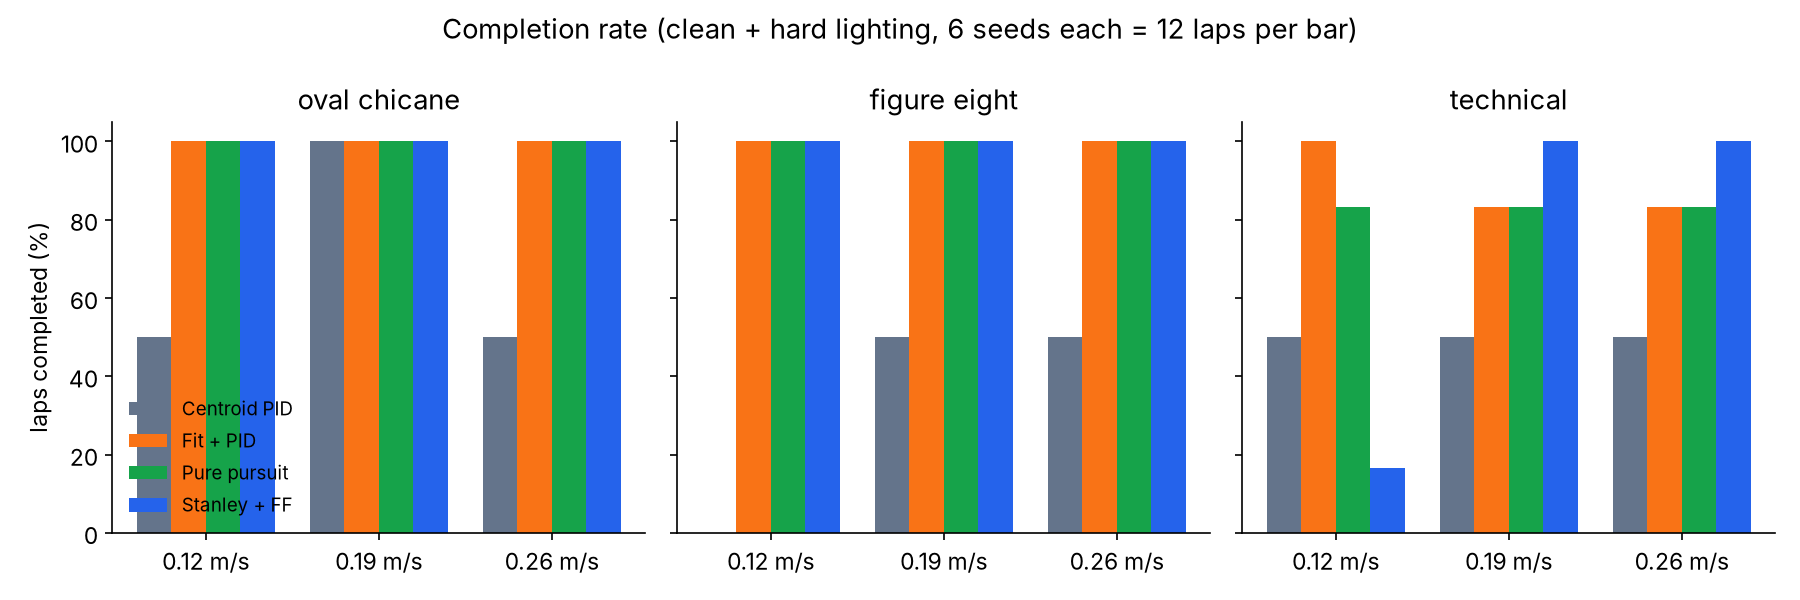
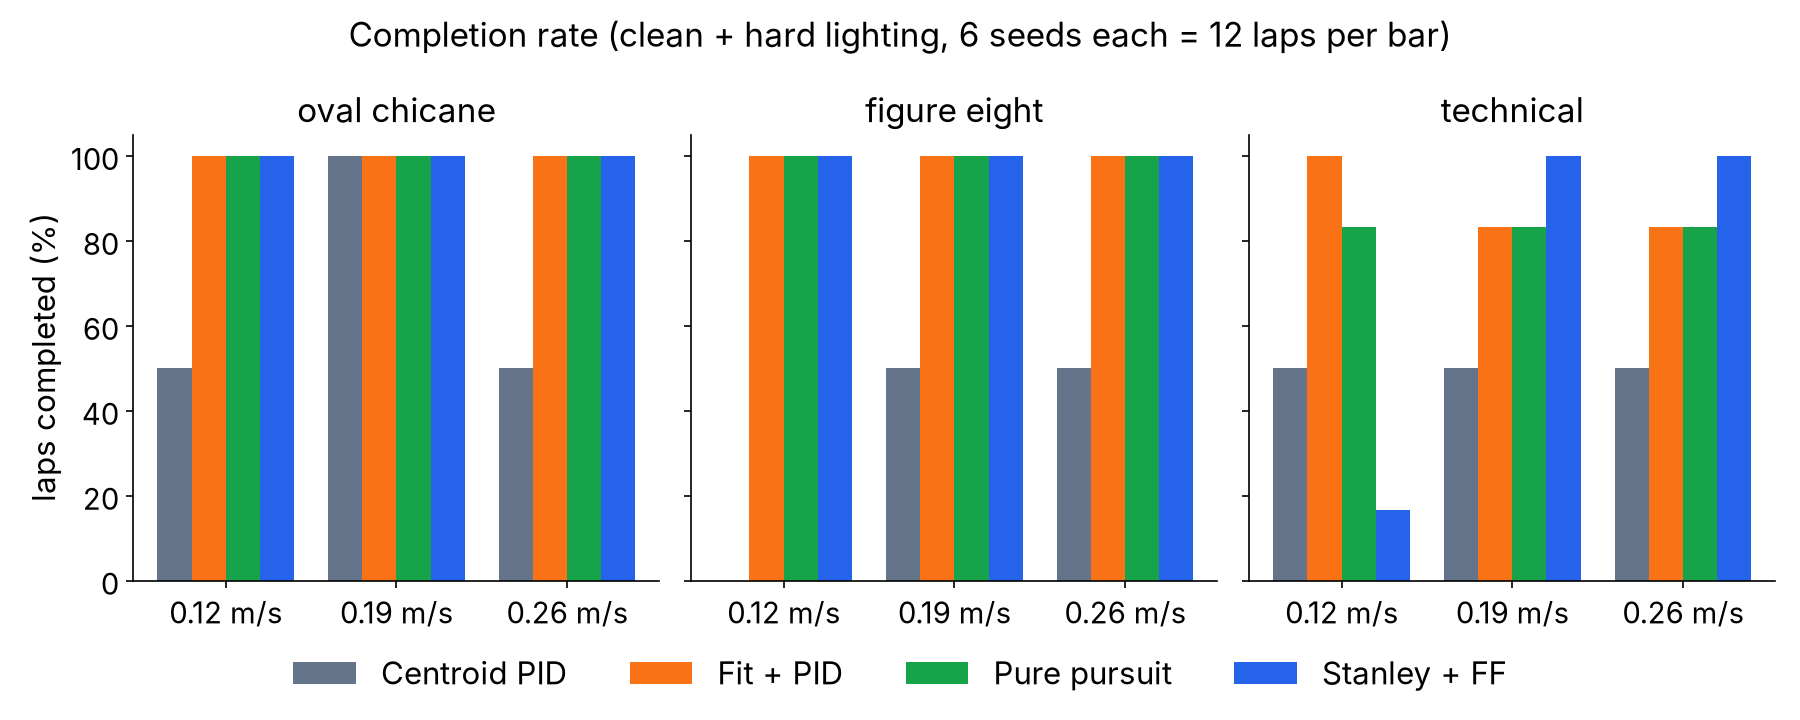
Match controller colours across plots, bigger chart text, legend below the bars, closing card

diff --git a/video/render.py b/video/render.py
@@ -24,6 +24,7 @@ HONEST = "TurtleBot3 Waffle Pi-style robot modelled in my own sim  ·  real Open
 BG = (248, 250, 252); TXT = (15, 23, 42); MUTE = (71, 85, 105); PANEL = (255, 255, 255); EDGE = (203, 213, 225)
 C_ROBOT = (14, 165, 233); C_ROBOT_EDGE = (8, 47, 73); C_FOV = (250, 204, 21); C_FIT = (217, 70, 239)
 C_WIN = (34, 211, 238); C_MASK = (34, 197, 94); C_OFF = (220, 38, 38)
+C_AMBER = (245, 158, 11); C_DARK = (15, 23, 42)
 C_CTRL = {"centroid_pid": (100, 116, 139), "pid": (249, 115, 22), "pure_pursuit": (22, 163, 74), "stanley_ff": (37, 99, 235)}
 LBL = {"centroid_pid": "Baseline: threshold + centroid + PID", "pid": "Bird's-eye fit + PID",
        "pure_pursuit": "Bird's-eye fit + pure pursuit", "stanley_ff": "Bird's-eye fit + Stanley + curvature FF"}
@@ -232,7 +233,7 @@ class RunScene:
                 (TOP[0] + 8, TOP[1] + 6, f"Whole track, top view (robot drawn {TOP_SCALE:g}x)", f("sb", 13), TXT, "la")])
         if frozen and self.freeze_note:
             pm = TOP[0] + (x + FLOOR_W / 2) / FLOOR_W * tw, TOP[1] + (FLOOR_H / 2 - y) / FLOOR_H * th_
-            cv2.circle(c.a, (s_(pm[0]), s_(pm[1])), s_(18), C_OFF, s_(3), cv2.LINE_AA)
+            cv2.circle(c.a, (s_(pm[0]), s_(pm[1])), s_(18), C_AMBER, s_(4), cv2.LINE_AA)
         # right column: camera + bird's-eye
         X0, CW = 776, 284
         c.text([(X0, 100, "Robot camera (raw, lens distortion)", f("sb", 14), TXT, "la")])
@@ -334,7 +335,7 @@ class RunScene:
         c.rect(X1, Y1, X2, Y2, EDGE, fill=False, w=1)
         T = max(self.t_end, 1.0)
         ymap = lambda v: (Y1 + Y2) / 2 + 8 - v / 0.15 * (Y2 - Y1) / 2 * 0.72
-        xmap = lambda t: X1 + 46 + (X2 - X1 - 56) * t / T
+        xmap = lambda t: X1 + 50 + (X2 - X1 - 56) * t / T
         for lv in (-0.12, 0.12):
             for xs in np.arange(xmap(0), X2 - 10, 14):
                 cv2.line(c.a, (s_(xs), s_(ymap(lv))), (s_(xs + 7), s_(ymap(lv))), C_OFF, s_(1.2), cv2.LINE_AA)
@@ -342,23 +343,24 @@ class RunScene:
         if i > 1:
             poly(c, np.column_stack([xmap(self.ts[:i + 1]), ymap(self.cte_hist[:i + 1])]), col, 2.0)
         cv2.circle(c.a, (s_(xmap(self.ts[i])), s_(ymap(self.cte_hist[i]))), s_(4.5), col, -1, cv2.LINE_AA)
-        c.text([(X1 + 10, Y1 + 8, "Cross-track error vs ground truth (cm)", f("sb", 14), TXT, "la"),
-                (X1 + 40, ymap(0.12), "+12", f("r", 12), C_OFF, "rm"), (X1 + 40, ymap(-0.12), "-12", f("r", 12), C_OFF, "rm"),
-                (X1 + 40, ymap(0), "0", f("r", 12), MUTE, "rm"), (X2 - 10, Y2 - 8, f"time (s) · run length {T:.0f} s", f("r", 12), MUTE, "rd"),
-                (X1 + 52, Y2 - 8, "red dashes = off-track limit", f("r", 12), C_OFF, "ld")])
+        c.text([(X1 + 10, Y1 + 6, "Cross-track error vs ground truth (cm)", f("sb", 16), TXT, "la"),
+                (X1 + 40, ymap(0.12), "+12", f("sb", 17), C_OFF, "rm"), (X1 + 40, ymap(-0.12), "-12", f("sb", 17), C_OFF, "rm"),
+                (X1 + 40, ymap(0), "0", f("sb", 17), MUTE, "rm"), (X2 - 10, Y2 - 6, f"time (s) · run length {T:.0f} s", f("r", 15), MUTE, "rd"),
+                (X1 + 52, Y2 - 6, "red dashes = off-track limit", f("r", 15), C_OFF, "ld")])
         # progress bar
         c.rect(20, 1016, 1060, 1023, (226, 232, 240), radius=3)
         c.rect(20, 1016, 20 + 1040 * (i + 1) / len(self.fr), 1023, col, radius=3)
         c.text([(20, 1040, HONEST, f("r", 13), MUTE, "lm"), (1060, 1040, NAME, f("sb", 14), TXT, "rm")])
         if frozen and self.freeze_note:
             k = min(1.0, kf / 8)
-            ov = c.a.copy()
-            cv2.rectangle(ov, (s_(CH[0] + 20), s_(CH[3] - 96)), (s_(CH[2] - 20), s_(CH[3] - 16)), (254, 242, 242), -1)
-            c.a = cv2.addWeighted(ov, 0.94 * k, c.a, 1 - 0.94 * k, 0)
-            if k > 0.5:
-                c.rect(CH[0] + 20, CH[3] - 96, CH[2] - 20, CH[3] - 16, C_OFF, fill=False, w=2)
-                c.text([(CH[0] + 40, CH[3] - 76, self.freeze_note[0], f("b", 20), C_OFF, "la"),
-                        (CH[0] + 40, CH[3] - 46, self.freeze_note[1], f("r", 15), TXT, "la")])
+            bx0, by0, bx1, by1 = CH[0] + 40, CH[3] - 118, CH[2] - 40, CH[3] - 22
+            base = c.a.copy()
+            c.rect(bx0, by0, bx1, by1, C_AMBER, radius=16)
+            c.rect(bx0 + 3, by0 + 3, bx1 - 3, by1 - 3, C_DARK, radius=13)
+            c.rect(bx0 + 22, by0 + 24, bx0 + 28, by1 - 24, C_AMBER, radius=3)
+            c.text([(bx0 + 46, by0 + 22, self.freeze_note[0], f("b", 26), C_AMBER, "la"),
+                    (bx0 + 46, by0 + 62, self.freeze_note[1], f("r", 18), (226, 232, 240), "la")])
+            c.a = (c.a.astype(np.float32) * k + base.astype(np.float32) * (1 - k)).astype(np.uint8)
         return c.out()
 
 
@@ -372,11 +374,30 @@ def card_title(k, n):
             (90, 506, "PID vs pure pursuit vs Stanley with curvature feed-forward", f("r", 22), TXT, "la"),
             (90, 542, "216 laps: 3 tracks · glare, shadows, light changes · 3 speeds · 3 seeds", f("r", 22), TXT, "la"),
             (90, 700, NAME, f("b", 30), TXT, "la"),
-            (90, 742, "BTech Robotics & AI · Amrita School of Engineering, Bengaluru", f("r", 20), MUTE, "la"),
             (90, 940, HONEST, f("r", 16), MUTE, "la")])
     for j, cl in enumerate(C_CTRL.values()):
         c.rect(90 + j * 70, 610, 146 + j * 70, 618, cl, radius=4)
     return fade(c.out(), min(1, k / 12, (n - k) / 10))
+
+
+def card_end(k, n):
+    c = Canvas()
+    c.rect(0, 0, W, 10, C_CTRL["stanley_ff"])
+    c.text([(90, 330, NAME, f("b", 50), TXT, "la"),
+            (90, 410, "Camera-based line following for a small diff-drive robot", f("m", 28), MUTE, "la"),
+            (90, 452, "OpenCV · bird's-eye RANSAC fit · PID vs pure pursuit vs Stanley + FF", f("r", 22), TXT, "la")])
+    for j, cl in enumerate(C_CTRL.values()):
+        c.rect(90 + j * 70, 520, 146 + j * 70, 528, cl, radius=4)
+    c.rect(90, 580, 990, 660, PANEL, radius=14)
+    c.rect(90, 580, 990, 660, EDGE, fill=False, w=1.5, radius=14)
+    c.text([(120, 620, "Code:", f("sb", 26), MUTE, "lm"), (210, 620, "github.com/Shannu2555/opencv-line-follower", f("b", 28), TXT, "lm"),
+            (90, 940, HONEST, f("r", 16), MUTE, "la")])
+    img = fade(c.out(), min(1, k / 10))
+    nb = 21  # last 0.7 s fades to black
+    if k >= n - nb:
+        a = (n - 1 - k) / nb
+        img = (img.astype(np.float32) * max(a, 0)).astype(np.uint8)
+    return img
 
 
 def card_image(title, sub, path, k, n, note=None):
@@ -449,8 +470,8 @@ def scenes():
         sc = RunScene(name, t, sub, plan)
         s = sc.s
         if s["status"] != "completed":
-            sc.freeze_note = (f"Left the line after {s['distance']:.1f} m ({100*s['frac_done']:.0f}% of the lap)",
-                              f"cross-track error hit {abs(sc.cte_hist[-1])*100:.0f} cm · lap counted as failed")
+            sc.freeze_note = (f"Lost the line after {s['distance']:.1f} m",
+                              f"{100*s['frac_done']:.0f}% of the lap · cross-track error hit {abs(sc.cte_hist[-1])*100:.0f} cm · lap failed")
         else:
             sc.freeze_note = None
         out.append((name, sc.n_frames(), (lambda sc: (lambda k, n: fade(sc.frame(k), min(1, (k + 1) / 6, (n - k) / 6))))(sc)))
@@ -469,7 +490,7 @@ def scenes():
         [330, 105, 125, 110, 110, 110, 100],
         ["Errors are against simulator ground truth, completed laps only (so a controller that", "finishes more of the hard laps is graded on harder laps).",
          "Latency: median per frame, 320×240, one CPU core."])))
-    charts = [("completion_rate", "Where each controller makes it round", "Completion rate by track and speed"),
+    charts = [("completion_rate", "Track completion by controller", "Completion rate by track and speed"),
               ("cte_trace_technical_hard", "Cross-track error, same lap", "Technical track, hard lighting, 0.19 m/s"),
               ("paths_technical_fast", "Driven paths at 0.26 m/s", "Technical track, hard lighting"),
               ("cte_rms_vs_speed", "Tracking error vs speed", "Completed laps, mean ± std"),
@@ -477,6 +498,7 @@ def scenes():
               ("perception_latency", "Perception time per frame", "Undistort + bird's-eye + mask + windows + RANSAC")]
     for fn, t, sub in charts:
         out.append((fn, 8 * FPS, (lambda fn, t, sub: (lambda k, n: card_image(t, sub, os.path.join(ROOT, "plots", fn + ".png"), k, n)))(fn, t, sub)))
+    out.append(("end", 4 * FPS, lambda k, n: card_end(k, n)))
     return out
 
 
@@ -484,6 +506,8 @@ def main():
     master = sys.argv[1] if len(sys.argv) > 1 else os.path.join(ROOT, "video", "master.mp4")
     only = sys.argv[2] if len(sys.argv) > 2 else None
     sc = scenes()
+    if only and only.startswith("--scene="):
+        sc = [x for x in sc if x[0] == only.split("=", 1)[1]]
     total = sum(n for _, n, _ in sc)
     print(f"{len(sc)} scenes, {total} frames, {total/FPS:.1f} s", flush=True)
     if only == "--stills":

diff --git a/experiments/analyze.py b/experiments/analyze.py
@@ -10,6 +10,7 @@ import matplotlib.pyplot as plt
 ROOT = os.path.abspath(os.path.join(os.path.dirname(__file__), ".."))
 P = os.path.join(ROOT, "plots")
 os.makedirs(P, exist_ok=True)
+plt.rcParams.update({"font.size": 14, "axes.titlesize": 16, "axes.labelsize": 15, "xtick.labelsize": 14, "ytick.labelsize": 14, "legend.fontsize": 14, "figure.titlesize": 16})
 COL = {"centroid_pid": "#64748b", "pid": "#f97316", "pure_pursuit": "#16a34a", "stanley_ff": "#2563eb"}
 LBL = {"centroid_pid": "Baseline: threshold + centroid + PID", "pid": "Bird's-eye fit + PID",
        "pure_pursuit": "Bird's-eye fit + pure pursuit", "stanley_ff": "Bird's-eye fit + Stanley + curvature FF"}
@@ -64,7 +65,7 @@ print(piv)
 print(fair.round(2))
 
 # ---- plot 1: completion rate by track and speed ----
-fig, axes = plt.subplots(1, 3, figsize=(12, 4), sharey=True)
+fig, axes = plt.subplots(1, 3, figsize=(12, 4.8), sharey=True)
 w = 0.2
 for ax, tr in zip(axes, TRACKS):
     d = df[df.track == tr]
@@ -76,9 +77,10 @@ for ax, tr in zip(axes, TRACKS):
     ax.set_title(tr.replace("_", " "))
     ax.set_ylim(0, 105)
 axes[0].set_ylabel("laps completed (%)")
-axes[0].legend(frameon=False, fontsize=9, loc="lower left")
+h, l = axes[0].get_legend_handles_labels()
+fig.legend(h, l, frameon=False, fontsize=15, loc="lower center", ncol=4, bbox_to_anchor=(0.5, 0.0))
 fig.suptitle(f"Completion rate (clean + hard lighting, {n} seeds each = {2*n} laps per bar)")
-fig.tight_layout()
+fig.tight_layout(rect=(0, 0.09, 1, 1))
 fig.savefig(os.path.join(P, "completion_rate.png"))
 
 # ---- plot 2: cross-track RMS vs speed (completed laps) ----
@@ -93,7 +95,7 @@ for ax, tr in zip(axes, TRACKS):
     ax.set_title(tr.replace("_", " "))
     ax.set_xlabel("speed (m/s)")
 axes[0].set_ylabel("cross-track RMS (cm)")
-axes[0].legend(frameon=False, fontsize=9)
+axes[0].legend(frameon=False, fontsize=13)
 fig.suptitle("Cross-track error vs speed (completed laps, mean ± std over seeds and lighting)")
 fig.tight_layout()
 fig.savefig(os.path.join(P, "cte_rms_vs_speed.png"))
@@ -108,11 +110,11 @@ for c in CTRLS:
         ax.plot(L.t.iloc[-1], L.cte.iloc[-1] * 100, "x", color="#dc2626", ms=10, mew=2.5)
 ax.axhline(12, color="#dc2626", ls="--", lw=1)
 ax.axhline(-12, color="#dc2626", ls="--", lw=1)
-ax.text(0.3, 12.4, "off-track limit ±12 cm", color="#dc2626", fontsize=9)
+ax.text(0.3, 12.4, "off-track limit ±12 cm", color="#dc2626", fontsize=13)
 ax.set_xlabel("time (s)")
 ax.set_ylabel("cross-track error (cm)")
 ax.set_title("Technical track, hard lighting, 0.19 m/s, seed 0 (red x = left the line)")
-ax.legend(frameon=False, ncol=4, fontsize=9, loc="lower right")
+ax.legend(frameon=False, ncol=4, fontsize=13, loc="lower right")
 fig.tight_layout()
 fig.savefig(os.path.join(P, "cte_trace_technical_hard.png"))
 
@@ -133,7 +135,7 @@ ax.hist(lat[1], bins=np.linspace(0, 8, 81), color=COL["stanley_ff"], alpha=0.8,
 ax.set_xlabel("perception time per frame (ms), 320x240, one CPU core")
 ax.set_ylabel("frames")
 ax.set_title("Per-frame perception latency")
-ax.legend(frameon=False, fontsize=9)
+ax.legend(frameon=False, fontsize=11)
 fig.tight_layout()
 fig.savefig(os.path.join(P, "perception_latency.png"))
 
@@ -152,7 +154,7 @@ ax.set_aspect("equal")
 ax.set_xlabel("x (m)")
 ax.set_ylabel("y (m)")
 ax.set_title("Driven paths, technical track, hard lighting, 0.26 m/s (red x = off track)")
-ax.legend(frameon=False, fontsize=8, loc="upper center", ncol=3)
+ax.legend(frameon=False, fontsize=12, loc="upper center", ncol=3)
 fig.tight_layout()
 fig.savefig(os.path.join(P, "paths_technical_fast.png"))
 
@@ -163,7 +165,7 @@ keys = list(pa)
 x = np.arange(len(keys))
 for k, (dist, colr) in enumerate([("20cm", "#0ea5e9"), ("30cm", "#6366f1"), ("45cm", "#a855f7")]):
     ax.bar(x + (k - 1) * 0.27, [pa[q]["rms_mm"][dist] for q in keys], 0.27, color=colr, label=f"{dist} ahead")
-ax.set_xticks(x, [q.replace("_", " ").replace("/", "\n") for q in keys], fontsize=9)
+ax.set_xticks(x, [q.replace("_", " ").replace("/", "\n") for q in keys], fontsize=12)
 ax.set_ylabel("lateral error RMS (mm)")
 ax.set_title("Line fit vs true centreline (static poses, calibrated camera)")
 ax.legend(frameon=False)
